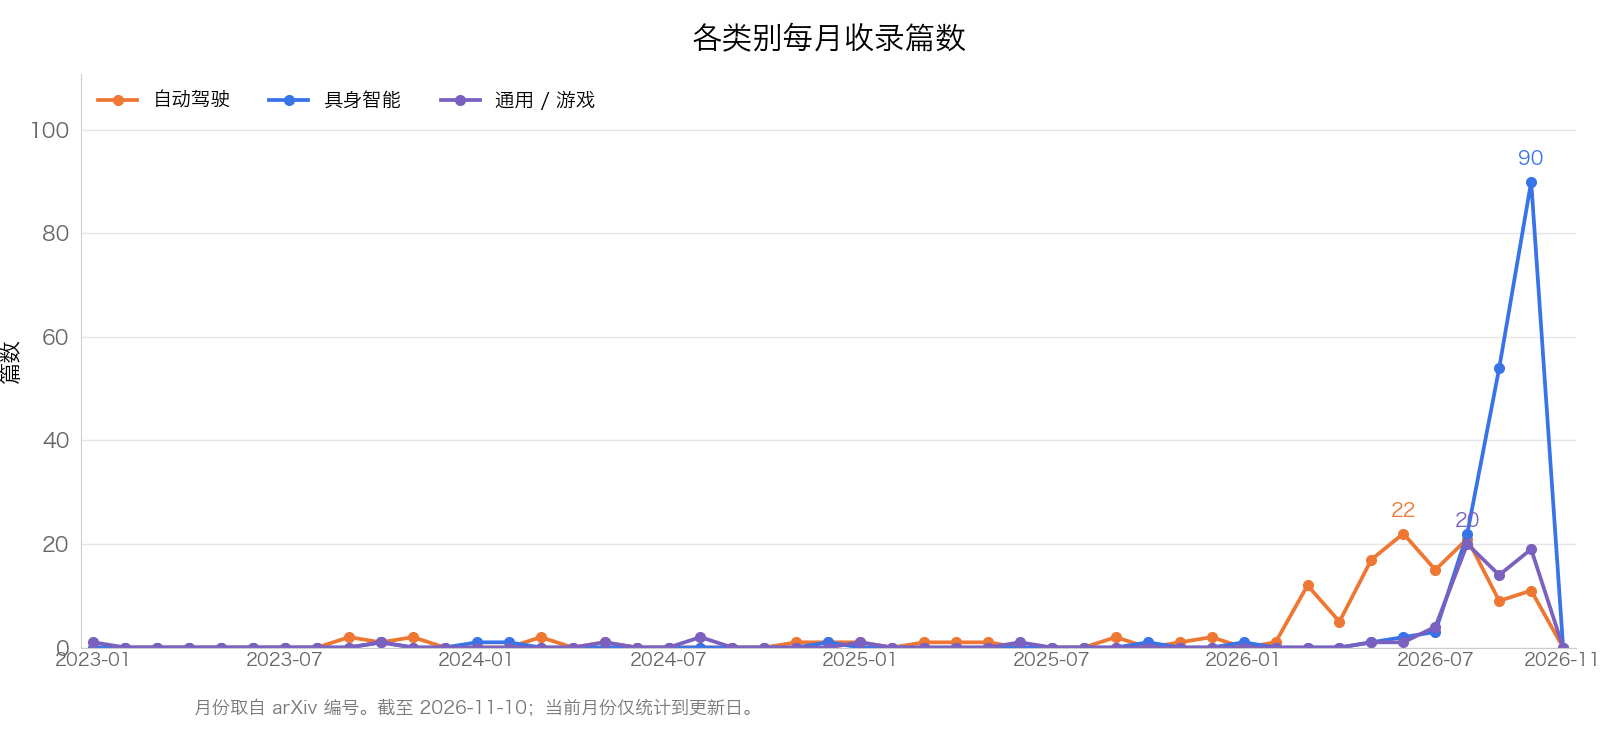
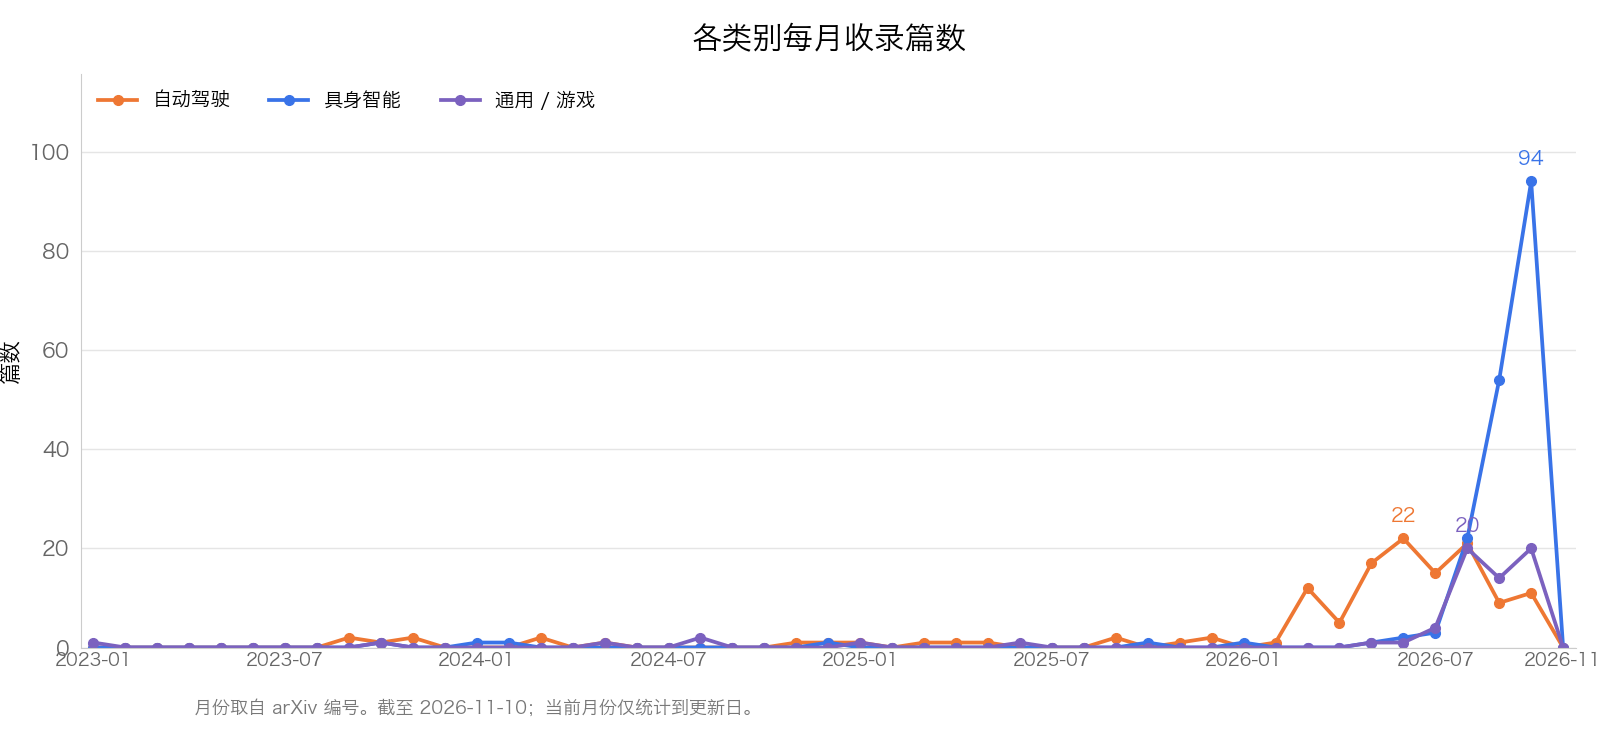
[update] diffdreamer, skelam, inside-jepa, drill, dexplicit
Curate 5 papers from issue #51, defer the garment world model pending stronger evidence, and update bilingual READMEs, charts, and screening records.

diff --git a/README.en.md b/README.en.md
@@ -10,7 +10,7 @@
 
 World models learn dynamic representations of their environments to predict and imagine the future. Interactive world models further support action-conditioned generation and control, providing data engines, neural simulators, and a foundation for policy learning in autonomous driving and embodied AI. This repository collects representative work, organized by application domain and annotated with its interactive capabilities.
 
-📊 **376** papers collected | Last updated: 2026-11-10
+📊 **381** papers collected | Last updated: 2026-11-10
 
 <p align="center">
   <img src="assets/interactive-world-model.en.svg" alt="Interactive world models: closed-loop interaction between agents and world models" width="760">
@@ -32,8 +32,8 @@ World models learn dynamic representations of their environments to predict and 
 ## Contents
 
 - [Autonomous Driving](#autonomous-driving) (132)
-- [Embodied AI](#embodied-ai) (178)
-- [General / Game](#general--game) (66)
+- [Embodied AI](#embodied-ai) (182)
+- [General / Game](#general--game) (67)
 
 ## Autonomous Driving
 
@@ -204,6 +204,8 @@ World models learn dynamic representations of their environments to predict and 
 | **Ctrl-World**: A Controllable Generative World Model for Robot Manipulation | ICLR (2026) | Stanford University / Tsinghua University | 🎮 🔁 ⏳ | [Paper](https://arxiv.org/abs/2510.10125) \| [Project](https://ctrl-world.github.io) | Fine-tunes 1.5B Stable Video Diffusion into a multi-view, action-conditioned world model, using pose-conditioned memory retrieval to maintain long horizons. Trained on DROID (approximately 95,000 trajectories across 564 scenes), it can roll out for more than 20 s with new scenes and camera arrangements. On 256 held-out 10-second trajectories, third-person FVD is 97.4, compared with 127.5 for the single-view version and 138.1 for single-view IRASim. Successful trajectories selected in imagination supervise π0.5 fine-tuning, raising success on unfamiliar instructions and objects from 38.7% to 83.4%. Success is judged manually. Instruction following is close to real-robot performance, but low-level execution success is underestimated. |
 | **D-JEPA**: A Decision-Aligned Latent World Model | arXiv (2026) | Nebulis Lab | 🎮 🔁 | [Paper](https://arxiv.org/abs/2609.24749) \| [Project](https://nebulis-lab.com/D-JEPA/) | Being closer to the goal in latent space does not mean an action will execute better. This method uses observed outcomes to learn a decision ranking among a small number of candidate futures, then writes it back into JEPA's future representations so planning can still use latent-space distances. Success is 87.89% on PushT; RoboTwin improves by an average of 15.04 points and real-robot tasks by 17 points. Action selection is also demonstrated in autonomous-driving scenarios. |
 | **DR-VLA**: Learning Human-Like Quadruped Navigation from Egocentric Web Videos via Domain-Invariant Scene Representations | arXiv (2026) | — | — | [Paper](https://arxiv.org/abs/2610.18373) | Pretrains future semantic, depth, and relational representations on human videos without action labels, then jointly trains a navigation action expert. In matched EgoLynx-Robot ablations, adding the world expert raises QNS from 0.841 to 0.884. Evaluation relies on log replay and pseudo-closed-loop metrics; autonomous navigation with execution feedback remains unvalidated. |
+| **DRILL**: Training World Models to Improve Policies, Not Predict Pixels | NeurIPS (2026) | Tencent Hunyuan / Peking University | 🎮 🔁 | [Paper](https://arxiv.org/abs/2610.30814) | Trains action-conditioned world models for simulator return after imagined GRPO updates. Across five simulated benchmarks and five seeds, π0-3B improves mean success by 13.1 points over WMPO. IMG uses 30 additional simulator rollouts per outer step and extra compute and memory; real robots remain untested. |
+| **DeXplicit**: Making Physical State Explicit in Dexterous Manipulation World Models | arXiv (2026) | Nanyang Technological University / UC Berkeley | 🎮 | [Paper](https://arxiv.org/abs/2610.30781) \| [Project](https://dexplicit.github.io/) \| [Code](https://github.com/Abecid/DeXplicit) | Predicts explicit 3D object motion and deformation from hand trajectories before transporting appearance and rendering video. HOT3D moved-point error over future states 1–32 falls from PointWorld's 90.47 mm to 54.34 mm. Metric geometry and calibrated cameras are required; OakInk2 all-point error worsens, and closed-loop control is untested. |
 | **D3WM**: Decoupled Drift-Diffusion World Models for Consistent Future Frame Prediction | arXiv (2026) | University of Michigan / NVIDIA | 🎮 | [Paper](https://arxiv.org/abs/2610.19212) \| [Project](https://anton-arapin.github.io/d3wm-site/) | Jointly learns an action-conditioned future mean and spatial uncertainty, using variance-gated diffusion to preserve deterministic regions; in offline verification of 32 action candidates on BridgeData V2, selected-action MSE is 0.022 versus 0.030 for IRASim. Each query predicts only one terminal frame, and closed-loop task success is untested. |
 | **DeltaWAM**: Change-Centric Visual Foresight via Delta Tokens for an Efficient World-Action Model | arXiv (2026) | Fudan University / University of Central Florida / University of Southern California | 🎮 🔁 | [Paper](https://arxiv.org/abs/2609.33177) \| [Code](https://github.com/deltawam/DeltaWAM) | Predicts only one DINO feature-difference token per frame, using current-frame DINO features as a spatial anchor before feeding a flow-matching action expert. LIBERO success is 92.8%; feeding complete future DINO features to the policy lowers it to 79.0%. Average success under LIBERO-Pro perturbations is 17.85%, with comparison methods near 0. The model has 0.725B parameters, takes 142.1 ms per action chunk, and uses 3.86 GB peak memory. |
 | **DeltaWorld**: Physically Consistent Interactive World Simulators via Action-Conditioned Latent Increment Learning | arXiv (2026) | Imprintx Robotics / State Grid Jibei Electric Power Research Institute / North China Electric Power Research Institute / Institute of Automation, Chinese Academy of Sciences | 🎮 ⏳ | [Paper](https://arxiv.org/abs/2610.02691) | Instead of directly predicting the next latent state, predicts action-induced latent increments and adds them to the current state, using counterfactual masks to strengthen supervision in interaction regions. Across five IWS tasks and two views, FVD decreases from 264.52 to 231.98 and LPIPS from 0.0661 to 0.0490. On self-collected data covering three robots and four tasks, FVD decreases from 168.98 to 90.31. Evaluation concerns action-conditioned video prediction. |
@@ -211,6 +213,7 @@ World models learn dynamic representations of their environments to predict and 
 | **Devol-ONE**: One Autoregressive Mixture of Transformers to Unify Vision-Language-Action and Latent World Modeling | arXiv (2026) | Devol Robots | 🎮 🔁 | [Paper](https://arxiv.org/abs/2609.32193) | A vision-language stream, a V-JEPA-initialized dynamics stream, and an action expert attend to one another at every layer, using the model's own latent rollouts during training. Average LIBERO success is 98.4%, and LIBERO-Plus success without fine-tuning on perturbation data is 71.4%. Across 34 RoboTwin 2.0 tasks, success is 61.1% on Clean and 63.7% on Randomized. Real-robot experiments also use single-arm and dual-arm Flexiv systems. |
 | **DexTacWAM**: A Visuo-Tactile World-Action Model for Dexterous Manipulation | arXiv (2026) | UIUC / UC Berkeley | 🎮 🔁 | [Paper](https://arxiv.org/abs/2609.24976) \| [Project](https://dextacwam.github.io/) | Independently encodes each fingertip's tactile signals and injects them into a video diffusion world model, jointly predicting visual and contact evolution and generating actions. Across six contact tasks on a 22-DoF dual-arm system, it averages 70.6 versus 38.0 for the strongest visual baseline; the clip task scores 60 versus 10. Removing tactile evolution while retaining tactile conditioning lowers the four-task average from 74.7 to 26.6. Approximately 100 demonstrations per task suffice to connect a pretrained video model to touch. |
 | **DexTouch-WM**: Learning Action-Conditioned Tactile World Models from Human Touch for Dexterous Robot Manipulation | arXiv (2026) | HKUST(GZ) / Xspark AI | 🎮 🔁 | [Paper](https://arxiv.org/abs/2609.20649) | Humans and dexterous hands use piezoresistive tactile arrays with the same layout. After human-hand actions are retargeted to the robot action space, the model predicts future images and tactile signals for both hands conditioned on actions. With robot data fixed at 5 hours, increasing human-touch data to 100 hours improves visual, geometric, and contact prediction on held-out robot tasks that differ from the human tasks. It can also serve as a policy evaluation environment and source of synthetic trajectories. |
+| **DiffDreamer**: Coupling World Models with Differentiable Simulation for Agile Quadrotor Control | arXiv (2026) | — | 🎮 🔁 | [Paper](https://arxiv.org/abs/2610.31617) | Couples action-conditioned latent external-motion prediction with differentiable quadrotor dynamics for dual-path policy optimization. Simulated tracking distance error is 0.381 m versus Elastic Tracker's 0.793 m. Real flights are proof-of-concept tests requiring identified dynamics and external motion capture. |
 | **LeWAM**: Diffusion-Steering-Based MPC with a JEPA World Action Model | arXiv (2026) | NVIDIA | 🎮 🔁 | [Paper](https://arxiv.org/abs/2610.12407) | A decoder-free JEPA jointly learns forward, inverse, and backward dynamics plus a policy, then searches in policy-noise space to reduce MPC exploitation of model errors. Across six simulated tasks with visual distractors, its policy approaches a pure flow-matching policy under matched model size and training protocol. Planning relies on demonstration-derived goals; real-robot validation is absent. |
 | **DEWO**: Direct Experience World-Model Optimization: Learning the World Beyond Action Imitation | arXiv (2026) | Harbin Institute of Technology / Dalian University of Technology / Southern University of Science and Technology | 🎮 🔁 | [Paper](https://arxiv.org/abs/2609.37398) | Continues updating the world model from observed frames after deployment rather than only imitating actions. It pairs successful and failed continuations at interaction turning points for classifier-free guidance. On five DexJoCo tasks, average success increases for all three world-action models. Across four real-robot tasks on Wuji and Sharpa and a 3×3 grid, after two rounds of deployment learning, the share of cells with at least one initial success rises from 51.0% to 71.7%. |
 | **DTRC**: Directed Temporal Representations for Offline Visual Control | arXiv (2026) | University of Sheffield / Shanghai Jiao Tong University / Shanghai University of Finance and Economics / University College London | 🎮 🔁 | [Paper](https://arxiv.org/abs/2610.08960) \| [Project](https://chenyang-yuan.github.io/dtrc-project/) \| [Code](https://github.com/Chenyang-Yuan/DTRC) | Learns a directed temporal distance on frozen LeWM visual features and supervises policy learning through progress toward the goal. An action-conditioned latent dynamics ensemble filters candidate actions during training; the policy acts directly in closed loop at test time. Across five evaluation seeds, with a goal offset of 25 transitions and a 50-step interaction budget, PushT success is 90.7%, versus 84.0% without model-assisted targets. Evaluation goals come from recorded trajectories rather than OGBench's official fixed-goal protocol. |
@@ -300,6 +303,7 @@ World models learn dynamic representations of their environments to predict and 
 | **Sampling-based Kinodynamic Planning with World Models** | arXiv (2026) | Purdue University | 🎮 🔁 | [Paper](https://arxiv.org/abs/2610.12910) | Uses a frozen DINO-WM to predict candidate-action consequences, with batched RRT/KPIECE expansion in latent space and receding-horizon replanning; RRT with short CEM polishing solves 29/30 real-robot block-pushing problems versus 23/30 each for CEM and MPPI; physical evaluation is limited to planar block pushing, and latent goal attainment does not guarantee real success. |
 | **Scope-WM**: Scoped Computation for Efficient Visual World Models | arXiv (2026) | Soochow University / Fudan University | 🎮 🔁 | [Paper](https://arxiv.org/abs/2609.33218) \| [Code](https://github.com/ChunZheng2022/Scope-WM) | Applies full dynamics only to latent tokens relevant to prediction, updating the remaining tokens with summaries of foreground states and their changes. Planning reuses previously found good action sequences. On Push-T, peak memory and planning time are 18.1% and 14.3% of dense DINO-WM, respectively, with a 6.97× planning speedup. |
 | **SG-JEPA**: Semigroup-JEPA: Latent Dynamics Consistency for Zero-Shot Physics Generalization | arXiv (2026) | Yale / Brown | 🎮 🔁 | [Paper](https://arxiv.org/abs/2609.10464) \| [Project](https://sg-jepa.github.io) | Builds on LeWorldModel by supplying parameters governing physics, such as gravity, as action conditions to a temporal model, jointly training the encoder and predictor through autoregressive latent rollouts. Compared with DINO-WM, 2D open-loop error decreases by up to 2× and 3D robot diffusion-policy success increases by up to 2.5×. Gains mainly come from the encoder retaining dynamics features that can be propagated forward. |
+| **SkeLAM**: Skeleton-Grounded Latent Action Model for Robot World Models | arXiv (2026) | Harbin Institute of Technology (Shenzhen) / Show Lab, National University of Singapore / Ping An Technology | 🎮 | [Paper](https://arxiv.org/abs/2610.31474) \| [Project](https://aopolin-lv.github.io/SkeLAM/) | Separates latent actions into skeleton-grounded kinematic and residual components through cross-modal swapping, then adapts robot actions for video prediction. DROID LPIPS is 0.1310 versus DreamDojo's 0.1473, but AgiBot gains are inconsistent; policy evaluation uses recorded-action replay without closed-loop validation. |
 | **Slot-JEPA**: Object-Structured Prediction Interfaces for Latent World Models | arXiv (2026) | University of Chinese Academy of Sciences / ICT, CAS / Beijing Academy of Artificial Intelligence / IIE, CAS | 🎮 🔁 | [Paper](https://arxiv.org/abs/2610.28074) \| [Code](https://github.com/KID-7391/Slot-JEPA) | Factorizes visual features into stable slots and dynamic masks, predicts action consequences with transition memory, and plans through unbalanced optimal transport. It succeeds in 93/108 REALM-JEPA simulation cases (86.1%), requiring exploratory memory initialization; slots need not preserve individual object identity. |
 | **Social-WM**: Safety-Aware Latent World Models for Robot Social Navigation | arXiv (2026) | Lehigh University | 🎮 🔁 | [Paper](https://arxiv.org/abs/2609.40177) | Learns action-conditioned latent dynamics from egocentric RGB, predicting futures actually caused by commands rather than nominal actions. At deployment, inverse dynamics estimates whether an action can actually be executed; the difference between nominal and executable actions serves as a safety signal. Social-HM3D success is 63.77% and pedestrian collisions are 21.67%, a 44.6% lower collision rate than NavThinker. Zero-shot transfer to Social-MP3D yields 54.15% success and 23.34% pedestrian collisions. It uses no pedestrian tracking, privileged human states, or online reinforcement learning. |
 | **SpatialCrafter**: Single Image World Modeling with Generative 3D Proxies | arXiv (2026) | — | 🎮 ⏳ | [Paper](https://arxiv.org/abs/2608.27073) \| [Project](https://fangchuan.github.io/SpatialCrafter/) | Decomposes explorable image-to-scene generation into two stages: global 3D proxy generation and appearance refinement. PaSS Flow predicts spatially aligned, geometrically consistent 3D proxies, then a video diffusion model is restructured into a generative deferred refiner that synthesizes high-frequency details over them, mitigating hallucinations and long-term drift. It also constructs the first hybrid image-to-scene dataset with 115K scenes. |
@@ -379,6 +383,7 @@ World models learn dynamic representations of their environments to predict and 
 | **GAUGE**: A Measurement-Grounded Benchmark for Physical Fidelity in Simulation Engines and Video World Models | arXiv (2026) | Weinan Zhang's team | — | [Paper](https://arxiv.org/abs/2608.05948) | A measurement-grounded benchmark for physical fidelity that diagnoses physical consistency in simulation engines and video world models. |
 | **HappyWorld-Bench** | arXiv (2026) | Alibaba / BAAI | — | [Paper](https://arxiv.org/abs/2609.24308) | Evaluates whether generated worlds remain reliable after exploration, interaction, and modification. Six capability levels unify video, spatial, and embodied systems, with checks of physical causality, content causality, and interpenetration to assess whether actions produce the expected consequences. |
 | **HelloWorld**: Enabling Socially Interactive Characters in Video World Models | arXiv (2026) | Yoichi Sato's team | — | [Paper](https://arxiv.org/abs/2608.05070) | The first to enable social interaction between users and virtual characters in video world models. |
+| **Inside-JEPA**: From Prediction to Relational Grounding in Latent World Models | arXiv (2026) | Australian Institute for Machine Learning, Adelaide University | 🎮 | [Paper](https://arxiv.org/abs/2610.31194) | Adds ordered-entity relational channels to action-conditioned JEPA latents and grounds them through inverse dynamics. Relational AUROC improves by 0.081 on held-out RH20T tasks, but changing-relation forecasts reach only 0.518. Relation targets are 2D-box predicates, and planning is offline one-step candidate ranking without closed-loop execution. |
 | **LeHami**: Symplectic Latent Dynamics for World Models | arXiv (2026) | New York University / Brown University / AMI Labs | 🎮 🔁 | [Paper](https://arxiv.org/abs/2610.15267) \| [Code](https://github.com/rominay/LeHami) | Learns an action-conditioned Hamiltonian over position–momentum latents, using symplectic leapfrog integration to preserve latent phase-space volume. Validation is limited to visual pendulums. At 15 TFLOPs per episode and a replanning interval of 9, joint position-and-velocity goal success is 26%, versus 39% for a three-frame LeWM baseline; the structural guarantee does not establish uniformly better control. |
 | **LeWi**: Learning Computational Structure for Sample-Efficient Prediction | arXiv (2026) | Georgia Institute of Technology / University of Cyprus | 🎮 | [Paper](https://arxiv.org/abs/2610.28555) | Jointly learns connectivity and weights through low-dimensional neuron embeddings to predict state changes from the current state and action. In 16-step open-loop evaluation across 17 simulated tasks with 16 paired seeds, it improves sample efficiency over dense networks on 16 tasks. Closed-loop control is untested, and sparse connectivity is still computed densely. |
 | **VPM**: Learning the 4D World through Point Trajectory Forecasting | arXiv (2026) | KAIST / ETH Zürich / Seoul National University / New York University / RLWRLD / Physics Sim Lab | 🔁 | [Paper](https://arxiv.org/abs/2610.28594) \| [Project](https://rootyjeon.github.io/video-point-model/) \| [Code](https://github.com/rootyJeon/VPM) | Jointly forecasts multi-view video and persistent 3D point trajectories, with matched-budget ablations showing gains in geometric consistency and robot action learning. Forecast tracks support qualitative receding-horizon control through kinematic conversion, but joint action generation does not establish externally action-conditioned prediction, and calibrated cameras are required. |

diff --git a/README.md b/README.md
@@ -10,7 +10,7 @@
 
 世界模型 (World Model) 通过学习环境的动态表征，实现对未来的预测与想象； 可交互世界模型进一步支持以动作 (action) 为条件的生成与控制， 为自动驾驶和具身智能提供数据引擎、神经仿真器与策略学习基础。 本仓库收录并整理该方向的代表性工作，按应用场景分类， 并标注每篇工作的交互能力维度。
 
-📊 共收录 **376** 篇工作 ｜ 最后更新：2026-11-10
+📊 共收录 **381** 篇工作 ｜ 最后更新：2026-11-10
 
 <p align="center">
   <img src="assets/interactive-world-model1.png" alt="交互式世界模型：智能体与世界模型的闭环交互" width="760">
@@ -32,8 +32,8 @@
 ## 目录
 
 - [自动驾驶 Autonomous Driving](#自动驾驶-autonomous-driving)（132）
-- [具身智能 Embodied AI](#具身智能-embodied-ai)（178）
-- [通用 / 游戏 General / Game](#通用--游戏-general--game)（66）
+- [具身智能 Embodied AI](#具身智能-embodied-ai)（182）
+- [通用 / 游戏 General / Game](#通用--游戏-general--game)（67）
 
 ## 自动驾驶 Autonomous Driving
 
@@ -204,6 +204,8 @@
 | **Ctrl-World**: A Controllable Generative World Model for Robot Manipulation | ICLR (2026) | 斯坦福大学 / 清华大学 | 🎮 🔁 ⏳ | [论文](https://arxiv.org/abs/2510.10125) \| [项目](https://ctrl-world.github.io) | 从 1.5B Stable Video Diffusion 微调成多视角动作条件世界模型，用位姿条件的记忆检索维持长时程。在 DROID（约 9.5 万条轨迹、564 个场景）上训练，新场景和新相机布置下可展开超过 20 秒。验证集 256 段 10 秒轨迹上，第三人称 FVD 为 97.4，单视角版本为 127.5，IRASim 单视角为 138.1。想象里筛出的成功轨迹用来监督微调 π0.5，陌生指令和物体上的成功率从 38.7% 到 83.4%。成功与否由人工判断。指令跟随与真机接近，但会低估底层执行成功率。 |
 | **D-JEPA**: A Decision-Aligned Latent World Model | arXiv (2026) | Nebulis Lab | 🎮 🔁 | [论文](https://arxiv.org/abs/2609.24749) \| [项目](https://nebulis-lab.com/D-JEPA/) | 潜空间里离目标更近不等于这个动作会执行得更好。它用已经发生的结果学习少数候选未来之间的决策顺序，再写回 JEPA 的未来表示，使规划仍可按潜空间距离进行。PushT 成功率 87.89%，RoboTwin 平均提高 15.04 个点，真机任务提高 17 个点，并在自动驾驶场景中做了动作选择。 |
 | **DR-VLA**: Learning Human-Like Quadruped Navigation from Egocentric Web Videos via Domain-Invariant Scene Representations | arXiv (2026) | — | — | [论文](https://arxiv.org/abs/2610.18373) | 用无动作标注的人类视频预训练未来语义、深度和关系表征，再联合训练导航动作专家。匹配训练的 EgoLynx-Robot 消融中，加入世界专家使 QNS 从 0.841 升至 0.884；评测依赖日志回放与伪闭环指标，尚未验证自主导航反馈执行。 |
+| **DRILL**: Training World Models to Improve Policies, Not Predict Pixels | NeurIPS (2026) | Tencent Hunyuan / Peking University | 🎮 🔁 | [论文](https://arxiv.org/abs/2610.30814) | 以想象 GRPO 更新后的模拟器回报训练动作条件世界模型；π0-3B 在五项仿真、五种子中较 WMPO 平均提高 13.1 个成功率百分点。IMG 每外循环额外使用 30 次模拟器 rollout，并增加计算和内存成本，尚无真机验证。 |
+| **DeXplicit**: Making Physical State Explicit in Dexterous Manipulation World Models | arXiv (2026) | Nanyang Technological University / UC Berkeley | 🎮 | [论文](https://arxiv.org/abs/2610.30781) \| [项目](https://dexplicit.github.io/) \| [代码](https://github.com/Abecid/DeXplicit) | 先按手部轨迹预测物体的显式三维运动与形变，再输送外观并渲染未来视频；HOT3D 前 32 个未来状态的移动点误差由 PointWorld 的 90.47 mm 降至 54.34 mm。依赖度量几何与标定相机，OakInk2 全点误差仍较差，尚无闭环控制验证。 |
 | **D3WM**: Decoupled Drift-Diffusion World Models for Consistent Future Frame Prediction | arXiv (2026) | University of Michigan / NVIDIA | 🎮 | [论文](https://arxiv.org/abs/2610.19212) \| [项目](https://anton-arapin.github.io/d3wm-site/) | 联合学习动作条件的未来均值与空间不确定性，以方差门控扩散保留确定区域；在 BridgeData V2 离线 32 候选动作验证中，所选动作 MSE 为 0.022（IRASim 为 0.030），但每次仅预测单个终帧，尚未验证闭环任务成功率。 |
 | **DeltaWAM**: Change-Centric Visual Foresight via Delta Tokens for an Efficient World-Action Model | arXiv (2026) | 复旦大学 / 中佛罗里达大学 / 南加州大学 | 🎮 🔁 | [论文](https://arxiv.org/abs/2609.33177) \| [代码](https://github.com/deltawam/DeltaWAM) | 每帧只预测一个 DINO 特征差分 token，当前帧的 DINO 特征作空间锚，再交给流匹配动作专家。LIBERO 成功率 92.8%；把完整未来 DINO 特征喂给策略会掉到 79.0%。LIBERO-Pro 扰动下平均 17.85%，对照方法接近 0。0.725B，每个动作块 142.1 ms，峰值显存 3.86 GB。 |
 | **DeltaWorld**: Physically Consistent Interactive World Simulators via Action-Conditioned Latent Increment Learning | arXiv (2026) | Imprintx Robotics / 国网冀北电力科学研究院 / 华北电力科学研究院 / 中国科学院自动化研究所 | 🎮 ⏳ | [论文](https://arxiv.org/abs/2610.02691) | 不直接预测下一帧潜状态，而是预测动作引起的潜变量增量并加回当前状态，交互区域用反事实掩码加重监督。IWS 五项任务、两个视角上，FVD 从 264.52 降到 231.98，LPIPS 从 0.0661 降到 0.0490。自采的三台机器人、四项任务上，FVD 从 168.98 降到 90.31。评测是动作条件视频预测。 |
@@ -211,6 +213,7 @@
 | **Devol-ONE**: One Autoregressive Mixture of Transformers to Unify Vision-Language-Action and Latent World Modeling | arXiv (2026) | Devol Robots | 🎮 🔁 | [论文](https://arxiv.org/abs/2609.32193) | 视觉语言流、由 V-JEPA 初始化的动力学流和动作专家在每一层互相注意，训练时就用模型自己滚出来的潜状态。LIBERO 平均成功率 98.4%，未在扰动数据上微调的 LIBERO-Plus 为 71.4%。34 个 RoboTwin 2.0 任务上 Clean 61.1%、Randomized 63.7%。另有 Flexiv 单臂和双臂真机。 |
 | **DexTacWAM**: A Visuo-Tactile World-Action Model for Dexterous Manipulation | arXiv (2026) | UIUC / UC Berkeley | 🎮 🔁 | [论文](https://arxiv.org/abs/2609.24976) \| [项目](https://dextacwam.github.io/) | 每根指尖的触觉各自编码后注入视频扩散世界模型，同时预测视觉和接触演化并生成动作。22 自由度双臂的六个接触任务上平均 70.6，最强视觉基线 38.0；夹子任务 60 对 10。拿掉触觉演化、只保留触觉条件后，四项任务平均从 74.7 掉到 26.6。约每个任务 100 条示范即可把预训练视频模型接到触觉。 |
 | **DexTouch-WM**: Learning Action-Conditioned Tactile World Models from Human Touch for Dexterous Robot Manipulation | arXiv (2026) | HKUST(GZ) / Xspark AI | 🎮 🔁 | [论文](https://arxiv.org/abs/2609.20649) | 人和灵巧手使用同一布局的压阻触觉阵列，人手动作重定向到机器人动作空间后，按动作同时预测未来图像和双手触觉。机器人数据固定为 5 小时，人类触摸加到 100 小时后，任务并不相同的留出机器人视觉、几何和接触预测都会变好，并可当作策略评测环境和合成轨迹来源。 |
+| **DiffDreamer**: Coupling World Models with Differentiable Simulation for Agile Quadrotor Control | arXiv (2026) | — | 🎮 🔁 | [论文](https://arxiv.org/abs/2610.31617) | 耦合动作条件潜在外部运动预测与可微四旋翼动力学，以双路径优化控制策略；仿真追踪距离误差为 0.381 m，Elastic Tracker 为 0.793 m。真机验证依赖已辨识动力学和外部动作捕捉，仅为概念验证。 |
 | **LeWAM**: Diffusion-Steering-Based MPC with a JEPA World Action Model | arXiv (2026) | NVIDIA | 🎮 🔁 | [论文](https://arxiv.org/abs/2610.12407) | 无解码器 JEPA 联合学习正向、逆向、后向动力学和策略，再在策略噪声空间搜索以减少 MPC 对模型误差的利用。六个带视觉干扰的仿真任务中，匹配模型规模与训练协议后策略表现接近纯流匹配策略；规划依赖演示提供目标，尚无真机验证。 |
 | **DEWO**: Direct Experience World-Model Optimization: Learning the World Beyond Action Imitation | arXiv (2026) | 哈尔滨工业大学 / 大连理工大学 / 南方科技大学 | 🎮 🔁 | [论文](https://arxiv.org/abs/2609.37398) | 部署之后继续用看到的画面更新世界模型，而不只模仿动作。它在交互转折点配对成功和失败的后续，用来做分类器无关引导。五个 DexJoCo 任务上，三种世界–动作模型的平均成功率都上升。Wuji 和 Sharpa 的四个真机任务、3×3 网格里，两轮部署学习后，至少有一次初始成功的格子从 51.0% 到 71.7%。 |
 | **DTRC**: Directed Temporal Representations for Offline Visual Control | arXiv (2026) | 谢菲尔德大学 / 上海交通大学 / 上海财经大学 / 伦敦大学学院 | 🎮 🔁 | [论文](https://arxiv.org/abs/2610.08960) \| [项目](https://chenyang-yuan.github.io/dtrc-project/) \| [代码](https://github.com/Chenyang-Yuan/DTRC) | 在冻结的 LeWM 视觉特征上学习有向时间距离，以朝目标推进的程度监督策略；动作条件潜动力学集成筛选训练时的候选动作，测试时直接闭环执行策略。五个评测种子、目标间隔 25 步和 50 步交互预算下，PushT 成功率 90.7%，无模型辅助目标时为 84.0%。评测目标来自记录轨迹，不是 OGBench 官方固定目标协议。 |
@@ -300,6 +303,7 @@
 | **Sampling-based Kinodynamic Planning with World Models** | arXiv (2026) | Purdue University | 🎮 🔁 | [论文](https://arxiv.org/abs/2610.12910) | 用冻结的 DINO-WM 预测候选动作后果，在潜空间批量扩展 RRT/KPIECE 并滚动重规划；30个真机推块问题中 RRT 加短 CEM 细化成功29/30，CEM 和 MPPI 各23/30；真机仅验证平面推块，潜空间到达不保证真实成功。 |
 | **Scope-WM**: Scoped Computation for Efficient Visual World Models | arXiv (2026) | 苏州大学 / 复旦大学 | 🎮 🔁 | [论文](https://arxiv.org/abs/2609.33218) \| [代码](https://github.com/ChunZheng2022/Scope-WM) | 只对和预测有关的潜变量 token 做完整动力学，其余 token 用前景状态及其变化的摘要更新，规划时复用已经搜到的好动作序列。Push-T 上峰值显存和规划时间分别是稠密 DINO-WM 的 18.1% 和 14.3%，规划加速 6.97 倍。 |
 | **SG-JEPA**: Semigroup-JEPA: Latent Dynamics Consistency for Zero-Shot Physics Generalization | arXiv (2026) | Yale / Brown | 🎮 🔁 | [论文](https://arxiv.org/abs/2609.10464) \| [项目](https://sg-jepa.github.io) | 在 LeWorldModel 上把控制物理的参数（如重力）作为动作条件喂给时序模型，并用自回归潜空间 rollout 联合训练编码器与预测器；相对 DINO-WM，2D 开环误差最多降 2×，3D 机器人扩散策略成功率最多升 2.5×，增益主要来自编码器保留可前向传递的动力学特征。 |
+| **SkeLAM**: Skeleton-Grounded Latent Action Model for Robot World Models | arXiv (2026) | Harbin Institute of Technology (Shenzhen) / Show Lab, National University of Singapore / Ping An Technology | 🎮 | [论文](https://arxiv.org/abs/2610.31474) \| [项目](https://aopolin-lv.github.io/SkeLAM/) | 用骨架监督与跨模态交换将潜动作分为运动和残差分量，再经动作适配驱动视频预测；DROID 的 LPIPS 为 0.1310，DreamDojo 为 0.1473，但 AgiBot 收益不一致，策略评估仅为录制动作重放，尚无闭环验证。 |
 | **Slot-JEPA**: Object-Structured Prediction Interfaces for Latent World Models | arXiv (2026) | University of Chinese Academy of Sciences / ICT, CAS / Beijing Academy of Artificial Intelligence / IIE, CAS | 🎮 🔁 | [论文](https://arxiv.org/abs/2610.28074) \| [代码](https://github.com/KID-7391/Slot-JEPA) | 将视觉表征分解为稳定槽与动态掩码，以转移记忆预测动作后果并用非平衡最优传输进行闭环规划；REALM-JEPA 仿真达到 93/108（86.1%）成功，依赖规划前探索初始化记忆，槽不保证单一物体身份。 |
 | **Social-WM**: Safety-Aware Latent World Models for Robot Social Navigation | arXiv (2026) | 理海大学 | 🎮 🔁 | [论文](https://arxiv.org/abs/2609.40177) | 从第一人称 RGB 学动作条件的潜动力学，预测的是指令实际造成的未来，而不是名义动作。部署时用逆动力学估计这条动作能不能真的执行，名义动作和可执行动作的差当作安全信号。Social-HM3D 成功率 63.77%，行人碰撞 21.67%，相对 NavThinker 的碰撞率低 44.6%。零样本转到 Social-MP3D，成功率 54.15%，行人碰撞 23.34%。不用行人跟踪、特权人体状态或在线强化学习。 |
 | **SpatialCrafter**: Single Image World Modeling with Generative 3D Proxies | arXiv (2026) | — | 🎮 ⏳ | [论文](https://arxiv.org/abs/2608.27073) \| [项目](https://fangchuan.github.io/SpatialCrafter/) | 将可探索图生场景拆解为「全局 3D 代理生成 + 外观细化」两阶段：PaSS Flow 预测空间对齐、几何一致的 3D 代理，再把视频扩散模型重构为生成式延迟细化器在其上合成高频细节，缓解幻觉与长时漂移；并构建 115K 场景的首个图生场景混合数据集。 |
@@ -379,6 +383,7 @@
 | **GAUGE**: A Measurement-Grounded Benchmark for Physical Fidelity in Simulation Engines and Video World Models | arXiv (2026) | Weinan Zhang 团队 | — | [论文](https://arxiv.org/abs/2608.05948) | 测量驱动的物理保真度基准，诊断仿真引擎与视频世界模型的物理一致性。 |
 | **HappyWorld-Bench** | arXiv (2026) | 阿里巴巴 / 智源 | — | [论文](https://arxiv.org/abs/2609.24308) | 评测生成世界在探索、交互和修改之后是否仍然可靠，用六级能力统一视频、空间和具身系统，并以物理因果、内容因果和穿模等检查动作有没有带来该有的后果。 |
 | **HelloWorld**: Enabling Socially Interactive Characters in Video World Models | arXiv (2026) | Yoichi Sato 团队 | — | [论文](https://arxiv.org/abs/2608.05070) | 首次在视频世界模型中实现用户与虚拟角色间的社交交互。 |
+| **Inside-JEPA**: From Prediction to Relational Grounding in Latent World Models | arXiv (2026) | Australian Institute for Machine Learning, Adelaide University | 🎮 | [论文](https://arxiv.org/abs/2610.31194) | 在动作条件 JEPA 潜状态中加入实体对关系通道，以逆动力学监督关系表征；RH20T 留出任务的关系 AUROC 提升 0.081，但变化关系预测仅为 0.518。关系真值来自二维框谓词，规划仅为离线单步候选排序，尚无闭环执行。 |
 | **LeHami**: Symplectic Latent Dynamics for World Models | arXiv (2026) | New York University / Brown University / AMI Labs | 🎮 🔁 | [论文](https://arxiv.org/abs/2610.15267) \| [代码](https://github.com/rominay/LeHami) | 在位置–动量潜状态上学习动作条件哈密顿量，以 leapfrog 辛积分保证潜空间体积守恒。仅在视觉摆环境验证；15 TFLOPs/回合、重规划间隔 9 时，位置与速度联合目标成功率为 26%，三帧 LeWM 对照为 39%，结构保证尚未带来全面控制优势。 |
 | **LeWi**: Learning Computational Structure for Sample-Efficient Prediction | arXiv (2026) | Georgia Institute of Technology / University of Cyprus | 🎮 | [论文](https://arxiv.org/abs/2610.28555) | 以神经元低维嵌入联合学习连接与权重，按当前状态和动作预测状态增量；17 个仿真任务、16 个配对种子的 16 步开环评测中，在 16 项任务上较稠密网络改善样本效率。尚无闭环控制验证，稀疏连接仍以稠密计算实现。 |
 | **VPM**: Learning the 4D World through Point Trajectory Forecasting | arXiv (2026) | KAIST / ETH Zürich / Seoul National University / New York University / RLWRLD / Physics Sim Lab | 🔁 | [论文](https://arxiv.org/abs/2610.28594) \| [项目](https://rootyjeon.github.io/video-point-model/) \| [代码](https://github.com/rootyJeon/VPM) | 联合预测多视图未来视频与持久三维点轨迹，以同预算消融验证点监督改善几何一致性和机器人动作学习；轨迹可经运动学转换用于定性滚动控制，但联合生成动作不等同于外部动作条件预测，且依赖标定相机。 |

diff --git a/curation/2026-11-10.md b/curation/2026-11-10.md
@@ -88,3 +88,25 @@
 - 已重新生成中英文 README 和两张月度统计图，完成字体、图例、日期与计数的目视核对。沿用临时 matplotlib 依赖和系统 CJK 字体的进程内别名，未修改生成器。
 - `python3 -m unittest discover -s tests`：25 项通过；`git diff --check` 通过。新增 5 个 arXiv ID/标题唯一，双语生成结果同步，6 篇候选均有决策记录。
 - 总数由 371 增至 376 篇（driving 132、embodied 178、general 66）；2026-10 月增量与分类新增量一致。原有论文、此前审核记录、AGENTS.md 与数据入口均保持不变。
+
+## Issue #51 — arXiv 候选论文更新 2026-10-23
+
+[原 issue](https://github.com/Zizizi-hao/Awesome-interactive-world-model-for-Pysical-Intelligence/issues/51)；6 篇候选均未收录，issue 无评论。本轮收录 5 篇（embodied 4、general 1），暂缓 1 篇，不收录 0 篇。按用户要求重点把控质量：优先核对可比实验、机制消融、评测样本与指标含义，不把机构、演示或摘要提升作为充分依据。收录不等于已验证可靠控制；每篇保留主要反证和适用范围。仅处理本 issue，初次筛选后保留本地修改供人工审核；用户随后明确授权提交、推送并关闭 issue #51。`meta.updated` 已为本次日期 2026-11-10，无需重复修改。
+
+### 收录
+
+- **DiffDreamer（embodied）**：两个控制任务、五个训练种子，共享观测/奖励的 PPO、DreamerV3、BPTT 与传统规划对照，以及奖励分解/状态表示消融，支持耦合潜在外部运动预测和可微机器人动力学的贡献。RSSM 和模拟器由同一动作同步展开，并用于反馈策略，标 action/closedloop。仿真追踪距离误差为 0.381 m，对照 Elastic Tracker 为 0.793 m；未证明同总计算预算优势。真机仅已辨识物理和外部 MoCap 下的概念验证，不声称视觉自主飞行或量化硬件优势；100 Hz 是策略频率，不标 realtime，亦不标 longhorizon。一手材料未确认机构与官方代码/项目，省略；RA-L 页眉不足以确认接收，venue 记 arXiv。[原文 §III–VI](https://arxiv.org/html/2610.31617v1)。
+- **SkeLAM（embodied）**：基于机制与视觉预测证据保守收录。DROID 主比较的视觉指标覆盖同清单 400 个视频；组件消融声明同训练预算，但未逐变体披露有效轨迹覆盖。完整模型 LPIPS 为 0.1310，去骨架监督/交换训练/动作适配器分别为 0.1538/0.1436/0.1545，另有固定权重骨架错配重建与冻结潜变量探针，能独立支持运动专化和适配贡献。动作误差需过滤跟踪，SkeLAM 326/400、DreamDojo 325/400 的有效子集未证明相同，不能将 ADE 改善当作严格配对证据。每片只生成一次、AgiBot 的 LPIPS/ADE 反向，故不声称全面优越或已证明完全解耦。RoboArena 105 次记录动作重放仅 9 次真实成功，成功召回率 33.33%，不足以支持可靠策略评估。推理只用当前图像/指定动作，未来残差置零；仅标 action。官方项目没有可核实代码链接，省略 code。[原文/附录 B–D](https://arxiv.org/html/2610.31474v1)、[项目](https://aopolin-lv.github.io/SkeLAM/)。
+- **Inside-JEPA（general）**：作为受控机制研究收录，不作为成熟机器人规划系统。同架构/数据/预算的 3–5 种子，以及实体分支逆动力学、打乱动作、无标签损失、检测跟踪与 RH20T 留出任务对照，较充分隔离了逆动力学监督路由的贡献。动作条件预测与置换动作测试支持 action；尚无闭环执行。关系真值来自二维框谓词，不证明真实物理接触/包含；RH20T 关系 AUROC 增加 0.081，但变化关系预测仅 0.518。一步候选排序依赖关系标签监督的读出，不能写成无监督规划；多步版本不胜频率先验。未比较其他关系建模方法，不声称通用关系建模最优。未核实项目/代码，省略。[原文 §4–6/附录 B、F、H](https://arxiv.org/html/2610.31194v1)。
+- **DRILL（embodied）**：五项仿真、主结果五种子/消融三种子，包含目标组件、跨骨干、额外 WMPO 计算与模拟器 episode 匹配 Sim-PPO 对照，支持按下游策略效用训练世界模型。π0-3B 相对 WMPO 平均提高 13.1 个成功率百分点。IMG 每外循环额外获取 30 次模拟器 rollout，Sim-PPO 只匹配 episode、不匹配总计算，不能称纯离线或同总资源优势；短时任务 IMG 不总优于 VWI，理论依赖局部近似与固定策略子问题。标 action/closedloop，未验证真机、实时或长时视觉一致性。NeurIPS 接收已由官方列表和同名同作者 poster 核实，venue 记 NeurIPS；代码/权重仍为发布承诺，省略 code/project。[原文/附录 D–F](https://arxiv.org/html/2610.30814v1)、[NeurIPS 官方列表](https://neurips.cc/Downloads/2026)、[官方 poster](https://neurips.cc/virtual/2026/poster/148289)。
+- **DeXplicit（embodied）**：同初始场景、动作和几何输入重训 PointWorld，采用共享渲染器及结构组件消融，按源序列划分避免跨窗口泄漏，支持显式三维动力学贡献。HOT3D 未来状态 1–32 的移动点误差由 90.47 mm 降至 54.34 mm；OakInk2 全点误差反而恶化，不能写全指标领先。依赖初始度量 3D、未来手轨迹和相机信息；视频评测较小，未见多训练种子不确定性报告。仅标 action，无控制反馈或长时一致性验证；32 帧约 4.90 秒，57 倍相对提速不等于 realtime。官方仓库已发几何与默认 14B 渲染器实现/权重，不声称所有因果模型均已公开。[原文/附录 A、E、G](https://arxiv.org/html/2610.30781v1)、[项目](https://dexplicit.github.io/)、[代码](https://github.com/Abecid/DeXplicit)。
+
+### 暂缓
+
+- **In-Context Learning World Models for Robot Dual-Arm Manipulation of Soft Garment with Partial Observations**：范围符合，但当前 v2（2026-10-28）的可复核证据尚不足以优先收录。确有每类 100 次仿真的世界模型评估器消融及匹配/打乱材料上下文实验，不误称“无消融”。主要问题是 60 次真机的 55/60 成功依赖未给数值的 CD/EMD 阈值；无世界模型的真机对照仅一个定性试验，材料训练/测试区间及独立性、训练种子统计未明确，且每次测试前需要四段遥操作上下文。应补齐阈值、材料划分、重复统计和同条件真机对照后再审。闭环重观察/重规划明确列为未来工作，长折叠任务也不自动支持长时生成标签。arXiv 项目 URL 截断；作者正确项目及仓库仅提供网页素材，未找到能补齐协议的模型实现。[当前原文 v2/§V–VII](https://arxiv.org/html/2610.30988v2)、[正确项目](https://1am5hy.github.io/ICL_soft_object_world_model/)、[作者仓库](https://github.com/1am5hy/ICL_soft_object_world_model)。
+
+### 本地验证
+
+- 已重新生成双语 README 和两张月度统计图，完成文字、图例、日期和计数的目视核对；沿用临时 matplotlib 依赖及系统 CJK 字体的进程内别名，未修改生成器。
+- `python3 -m unittest discover -s tests`：25 项通过；`git diff --check` 通过。新增 5 个 arXiv ID/标题唯一，双语生成结果一致，6 篇候选均有决策记录，暂缓论文未加入数据库。
+- 总数由 376 增至 381 篇（driving 132、embodied 182、general 67），2026-10 月增量与分类新增量一致。原有论文、此前审核记录、AGENTS.md 与数据入口未改动。
